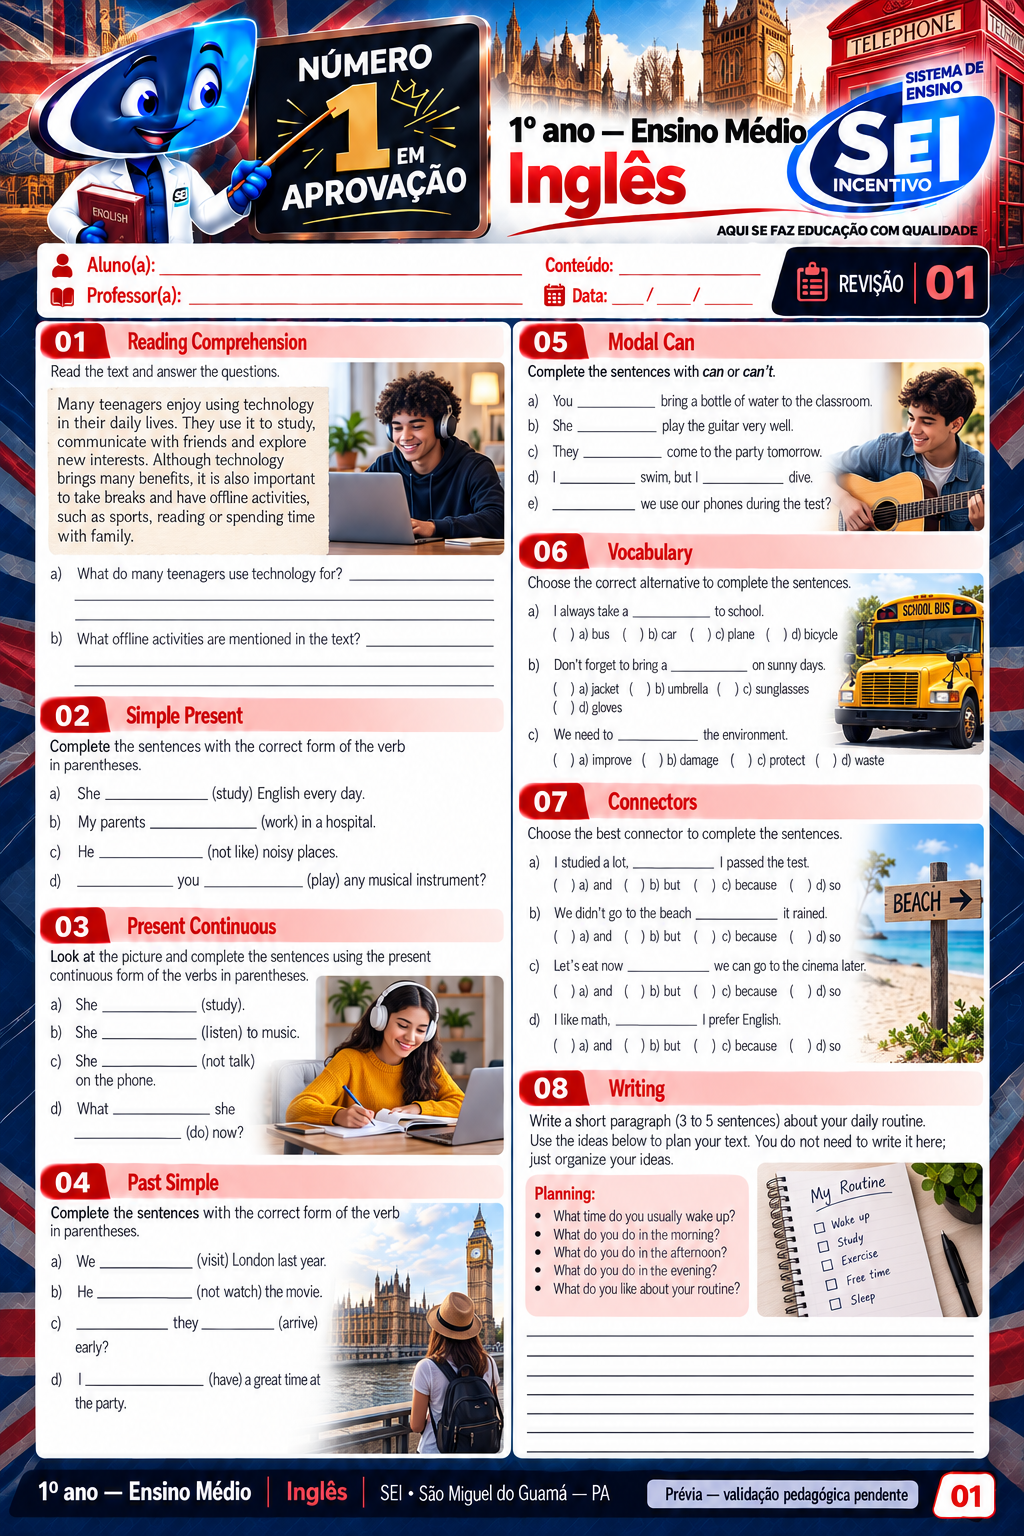
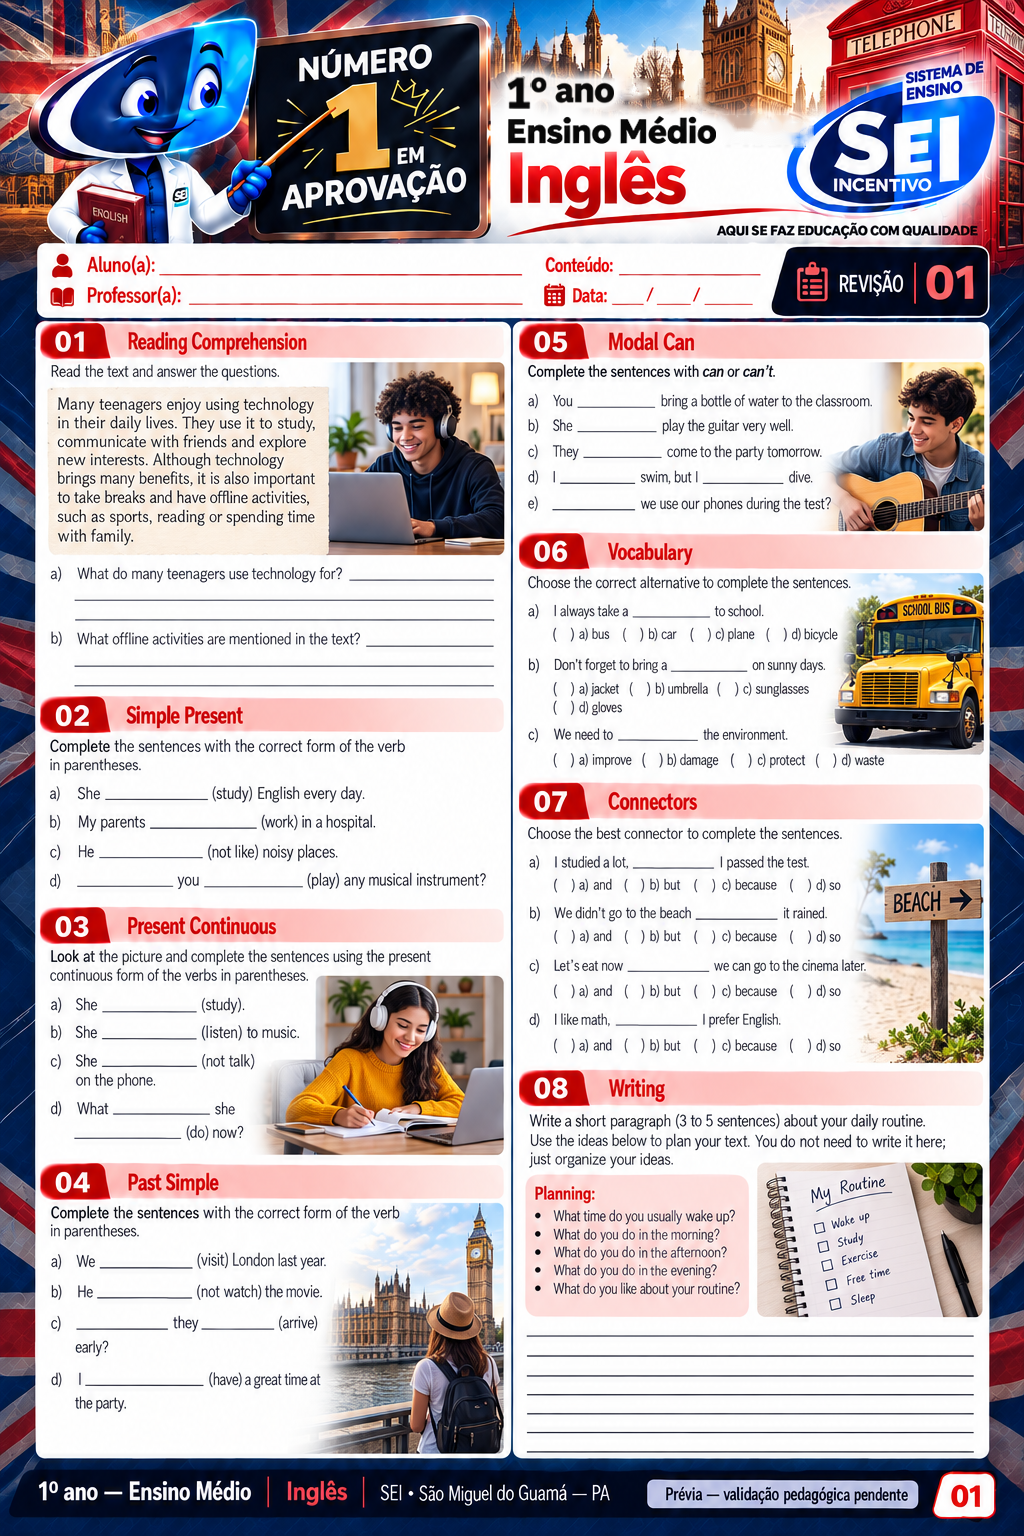
Ensino Médio 1º e 2º ano: série e segmento em duas linhas maiores
"Xº ano" / "Ensino Médio" sem o traço, com letras maiores.
Convênio mantém o cabeçalho atual.

Claude-Session: https://claude.ai/code/session_01EnA51XFdjbCxLqLpJXARBK

Changed region(s): [[0.4688, 0.0312, 0.8125, 0.0938]]

diff --git a/catalogo.js b/catalogo.js
@@ -80,34 +80,34 @@ const seiPublishedPages={
   "1|9º ano|Inglês": "assets/fundamental-2/9-ano/ingles.png",
   "1|9º ano|Língua Portuguesa": "assets/fundamental-2/9-ano/lingua-portuguesa.png",
   "1|9º ano|Matemática": "assets/fundamental-2/9-ano/matematica.png",
-  "2|1º ano|Arte": "assets/ensino-medio/1-ano/arte.png?v=3",
-  "2|1º ano|Biologia": "assets/ensino-medio/1-ano/biologia.png?v=3",
-  "2|1º ano|Educação Física": "assets/ensino-medio/1-ano/educacao-fisica.png?v=3",
-  "2|1º ano|Filosofia": "assets/ensino-medio/1-ano/filosofia.png?v=3",
-  "2|1º ano|Física": "assets/ensino-medio/1-ano/fisica.png?v=3",
-  "2|1º ano|Geografia": "assets/ensino-medio/1-ano/geografia.png",
-  "2|1º ano|História": "assets/ensino-medio/1-ano/historia.png?v=3",
-  "2|1º ano|Inglês": "assets/ensino-medio/1-ano/ingles.png",
-  "2|1º ano|Língua Portuguesa": "assets/ensino-medio/1-ano/lingua-portuguesa.png?v=3",
-  "2|1º ano|Literatura": "assets/ensino-medio/1-ano/literatura.png",
-  "2|1º ano|Matemática": "assets/ensino-medio/1-ano/matematica.png?v=3",
-  "2|1º ano|Química": "assets/ensino-medio/1-ano/quimica.png?v=2",
-  "2|1º ano|Redação": "assets/ensino-medio/1-ano/redacao.png",
-  "2|1º ano|Sociologia": "assets/ensino-medio/1-ano/sociologia.png?v=3",
-  "2|2º ano|Arte": "assets/ensino-medio/2-ano/arte.png",
-  "2|2º ano|Biologia": "assets/ensino-medio/2-ano/biologia.png?v=3",
-  "2|2º ano|Educação Física": "assets/ensino-medio/2-ano/educacao-fisica.png",
-  "2|2º ano|Filosofia": "assets/ensino-medio/2-ano/filosofia.png?v=3",
-  "2|2º ano|Física": "assets/ensino-medio/2-ano/fisica.png?v=3",
-  "2|2º ano|Geografia": "assets/ensino-medio/2-ano/geografia.png",
-  "2|2º ano|História": "assets/ensino-medio/2-ano/historia.png?v=3",
-  "2|2º ano|Inglês": "assets/ensino-medio/2-ano/ingles.png?v=3",
-  "2|2º ano|Língua Portuguesa": "assets/ensino-medio/2-ano/lingua-portuguesa.png?v=3",
-  "2|2º ano|Literatura": "assets/ensino-medio/2-ano/literatura.png?v=3",
-  "2|2º ano|Matemática": "assets/ensino-medio/2-ano/matematica.png?v=3",
-  "2|2º ano|Química": "assets/ensino-medio/2-ano/quimica.png",
-  "2|2º ano|Redação": "assets/ensino-medio/2-ano/redacao.png",
-  "2|2º ano|Sociologia": "assets/ensino-medio/2-ano/sociologia.png",
+  "2|1º ano|Arte": "assets/ensino-medio/1-ano/arte.png?v=5",
+  "2|1º ano|Biologia": "assets/ensino-medio/1-ano/biologia.png?v=5",
+  "2|1º ano|Educação Física": "assets/ensino-medio/1-ano/educacao-fisica.png?v=5",
+  "2|1º ano|Filosofia": "assets/ensino-medio/1-ano/filosofia.png?v=5",
+  "2|1º ano|Física": "assets/ensino-medio/1-ano/fisica.png?v=5",
+  "2|1º ano|Geografia": "assets/ensino-medio/1-ano/geografia.png?v=5",
+  "2|1º ano|História": "assets/ensino-medio/1-ano/historia.png?v=5",
+  "2|1º ano|Inglês": "assets/ensino-medio/1-ano/ingles.png?v=5",
+  "2|1º ano|Língua Portuguesa": "assets/ensino-medio/1-ano/lingua-portuguesa.png?v=5",
+  "2|1º ano|Literatura": "assets/ensino-medio/1-ano/literatura.png?v=5",
+  "2|1º ano|Matemática": "assets/ensino-medio/1-ano/matematica.png?v=5",
+  "2|1º ano|Química": "assets/ensino-medio/1-ano/quimica.png?v=5",
+  "2|1º ano|Redação": "assets/ensino-medio/1-ano/redacao.png?v=5",
+  "2|1º ano|Sociologia": "assets/ensino-medio/1-ano/sociologia.png?v=5",
+  "2|2º ano|Arte": "assets/ensino-medio/2-ano/arte.png?v=5",
+  "2|2º ano|Biologia": "assets/ensino-medio/2-ano/biologia.png?v=5",
+  "2|2º ano|Educação Física": "assets/ensino-medio/2-ano/educacao-fisica.png?v=5",
+  "2|2º ano|Filosofia": "assets/ensino-medio/2-ano/filosofia.png?v=5",
+  "2|2º ano|Física": "assets/ensino-medio/2-ano/fisica.png?v=5",
+  "2|2º ano|Geografia": "assets/ensino-medio/2-ano/geografia.png?v=5",
+  "2|2º ano|História": "assets/ensino-medio/2-ano/historia.png?v=5",
+  "2|2º ano|Inglês": "assets/ensino-medio/2-ano/ingles.png?v=5",
+  "2|2º ano|Língua Portuguesa": "assets/ensino-medio/2-ano/lingua-portuguesa.png?v=5",
+  "2|2º ano|Literatura": "assets/ensino-medio/2-ano/literatura.png?v=5",
+  "2|2º ano|Matemática": "assets/ensino-medio/2-ano/matematica.png?v=5",
+  "2|2º ano|Química": "assets/ensino-medio/2-ano/quimica.png?v=5",
+  "2|2º ano|Redação": "assets/ensino-medio/2-ano/redacao.png?v=5",
+  "2|2º ano|Sociologia": "assets/ensino-medio/2-ano/sociologia.png?v=5",
   "3|3º ano|Arte": "assets/convenio/3-ano/arte.png",
   "3|3º ano|Biologia": "assets/convenio/3-ano/biologia.png",
   "3|3º ano|Educação Física": "assets/convenio/3-ano/educacao-fisica.png",

diff --git a/index.html b/index.html
@@ -17,4 +17,4 @@
 .math-meta{grid-template-columns:minmax(0,1fr) minmax(0,1fr)!important}
 @media(max-width:600px){.meta,.math-meta{grid-template-columns:minmax(0,1fr)!important}}
 @media print{.meta,.math-meta{grid-template-columns:1fr 1fr!important}}
-</style><style>.sei-preview-notice{max-width:850px;margin:15px auto;padding:12px 16px;border-radius:8px;background:#fff3d5;color:#604000;font-weight:600}.original-page{width:100%;height:auto;display:block}@media print{#print-area .original-physics{width:100%;margin:0!important}#print-area .original-page{width:100%;height:auto;max-height:277mm;object-fit:contain}@page{size:A4;margin:10mm}}</style><link rel="stylesheet" href="portal.css?v=8-word"></head><body><header><h1>SEI | Biblioteca Digital</h1><p>Sistema de Ensino Incentivo · São Miguel do Guamá — PA</p></header><main class="wrap"><div id="crumb" class="crumb"></div><h2 id="title"></h2><div id="content" class="grid"></div></main><footer>AQUI SE FAZ EDUCAÇÃO COM QUALIDADE</footer><div id="print-area"></div><script src="biblioteca.js"></script><script src="catalogo.js?v=3"></script><script src="sei-header-art.js?v=1"></script><script src="sei-standard.js?v=1"></script><script src="modelo-word.js?v=10-standard"></script><script src="portal.js?v=22-folhas"></script></body></html>
+</style><style>.sei-preview-notice{max-width:850px;margin:15px auto;padding:12px 16px;border-radius:8px;background:#fff3d5;color:#604000;font-weight:600}.original-page{width:100%;height:auto;display:block}@media print{#print-area .original-physics{width:100%;margin:0!important}#print-area .original-page{width:100%;height:auto;max-height:277mm;object-fit:contain}@page{size:A4;margin:10mm}}</style><link rel="stylesheet" href="portal.css?v=8-word"></head><body><header><h1>SEI | Biblioteca Digital</h1><p>Sistema de Ensino Incentivo · São Miguel do Guamá — PA</p></header><main class="wrap"><div id="crumb" class="crumb"></div><h2 id="title"></h2><div id="content" class="grid"></div></main><footer>AQUI SE FAZ EDUCAÇÃO COM QUALIDADE</footer><div id="print-area"></div><script src="biblioteca.js"></script><script src="catalogo.js?v=5"></script><script src="sei-header-art.js?v=1"></script><script src="sei-standard.js?v=1"></script><script src="modelo-word.js?v=10-standard"></script><script src="portal.js?v=22-folhas"></script></body></html>
